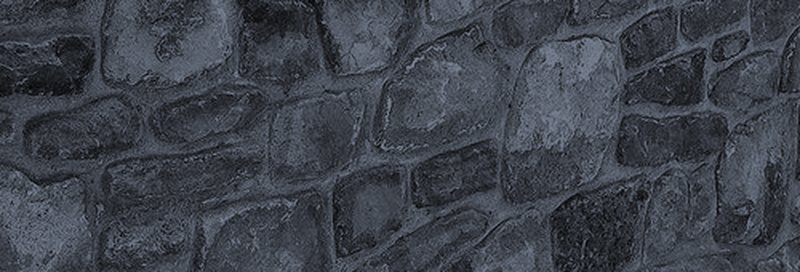
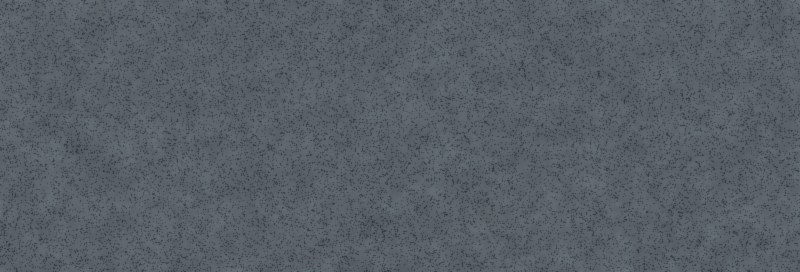
Single-stone button texture, mortar trail anchored to the trowel

diff --git a/assets/css/styles.css b/assets/css/styles.css
@@ -102,9 +102,9 @@ main > .section:not(.cta)::before { counter-increment: sec; content: "No. 0" cou
 @media (max-width: 640px) { .grid-2, .grid-3, .grid-4 { grid-template-columns: 1fr; } }
 
 /* ---------- Buttons: cut from the wall ---------- */
-.btn { position: relative; display: inline-flex; align-items: center; justify-content: center; gap: 12px; padding: 19px 30px; font-family: var(--font-mono); font-size: 0.82rem; font-weight: 500; color: var(--chalk); text-shadow: 0 1px 2px rgba(0,0,0,0.85), 0 0 10px rgba(0,0,0,0.5); background: #8f8676; clip-path: polygon(2% 12%, 9% 0, 62% 3%, 96% 0, 100% 40%, 98% 100%, 55% 96%, 8% 100%, 0 78%); isolation: isolate; white-space: nowrap; transition: transform 0.35s var(--ease-out), filter 0.35s; }
+.btn { position: relative; display: inline-flex; align-items: center; justify-content: center; gap: 12px; padding: 19px 30px; font-family: var(--font-mono); font-size: 0.82rem; font-weight: 500; color: var(--chalk); text-shadow: 0 1px 2px rgba(0,0,0,0.7); background: #8f8676; clip-path: polygon(2% 12%, 9% 0, 62% 3%, 96% 0, 100% 40%, 98% 100%, 55% 96%, 8% 100%, 0 78%); isolation: isolate; white-space: nowrap; transition: transform 0.35s var(--ease-out), filter 0.35s; }
 .btn::before { content: ""; position: absolute; inset: 3px; z-index: -1; background: var(--stone-tex, url("../img/ui/stone-warm.jpg")) center / cover; clip-path: polygon(2% 12%, 9% 0, 62% 3%, 96% 0, 100% 40%, 98% 100%, 55% 96%, 8% 100%, 0 78%); transition: filter 0.35s; }
-.btn::after { content: ""; position: absolute; inset: 3px; z-index: -1; clip-path: polygon(2% 12%, 9% 0, 62% 3%, 96% 0, 100% 40%, 98% 100%, 55% 96%, 8% 100%, 0 78%); background: linear-gradient(160deg, rgba(255,255,255,0.16), rgba(0,0,0,0.12) 40%, rgba(0,0,0,0.45)); pointer-events: none; }
+.btn::after { content: ""; position: absolute; inset: 3px; z-index: -1; clip-path: polygon(2% 12%, 9% 0, 62% 3%, 96% 0, 100% 40%, 98% 100%, 55% 96%, 8% 100%, 0 78%); background: linear-gradient(160deg, rgba(255,255,255,0.22), rgba(0,0,0,0) 45%, rgba(0,0,0,0.38)); pointer-events: none; }
 .btn:hover { transform: translateY(-2px); }
 .btn:hover::before, .btn:focus-visible::before { filter: brightness(1.18) saturate(1.1); }
 .btn .arrow { width: 18px; height: 18px; transition: transform 0.35s var(--ease-out); filter: drop-shadow(0 1px 1px rgba(0,0,0,0.5)); }
@@ -168,13 +168,13 @@ body.menu-open { overflow: hidden; }
 .loader.is-done { display: none; }
 
 /* ---------- Trowel cursor + mortar trail ---------- */
-.cursor { position: fixed; top: 0; left: 0; z-index: 9995; pointer-events: none; width: 42px; height: 42px; color: #e9e3d5; filter: drop-shadow(0 2px 3px rgba(0,0,0,0.45)); transform: translate(-4px, -4px); transition: transform 0.25s var(--ease-out); display: none; }
+.cursor { position: fixed; top: 0; left: 0; z-index: 9995; pointer-events: none; width: 42px; height: 42px; color: #e9e3d5; filter: drop-shadow(0 2px 3px rgba(0,0,0,0.45)); display: none; }
 .cursor svg { width: 100%; height: 100%; transform: rotate(-20deg); transition: transform 0.3s var(--ease-out); }
 .cursor.is-link svg { transform: rotate(-38deg) scale(1.15); }
 .cursor.is-down svg { transform: rotate(-55deg) scale(0.95); }
 .cursor .cursor-label { position: absolute; left: 36px; top: 4px; padding: 6px 9px; background: var(--rosso); color: var(--chalk); font-family: var(--font-mono); font-size: 0.66rem; white-space: nowrap; opacity: 0; transform: translateX(-6px); transition: opacity 0.25s, transform 0.25s; }
 .cursor.is-view .cursor-label { opacity: 1; transform: none; }
-.mortar { position: fixed; inset: 0; z-index: 9994; pointer-events: none; display: none; }
+.mortar { position: fixed; inset: 0; width: 100vw; height: 100vh; z-index: 9994; pointer-events: none; display: none; }
 @media (pointer: fine) { html.has-trowel, html.has-trowel a, html.has-trowel button, html.has-trowel summary, html.has-trowel input, html.has-trowel textarea, html.has-trowel select, html.has-trowel [role=button] { cursor: none; } html.has-trowel .cursor, html.has-trowel .mortar { display: block; } }
 
 /* ---------- Hero ---------- */

diff --git a/assets/js/main.js b/assets/js/main.js
@@ -162,7 +162,7 @@
     const yTo = gsap.quickTo(cursor, "y", { duration: 0.12, ease: "power3" });
     const ctx = mortar.getContext("2d");
     let blobs = [], last = { x: -1, y: -1 }, raf = null, dpr = Math.min(window.devicePixelRatio || 1, 2);
-    const size = () => { mortar.width = innerWidth * dpr; mortar.height = innerHeight * dpr; ctx.setTransform(dpr, 0, 0, dpr, 0, 0); };
+    const size = () => { mortar.width = innerWidth * dpr; mortar.height = innerHeight * dpr; mortar.style.width = innerWidth + "px"; mortar.style.height = innerHeight + "px"; ctx.setTransform(dpr, 0, 0, dpr, 0, 0); };
     size(); window.addEventListener("resize", size);
     const add = (x, y, r, life) => { blobs.push({ x: x + (Math.random() - 0.5) * 6, y: y + (Math.random() - 0.5) * 6, r, born: performance.now(), life, a: Math.random() * Math.PI }); if (!raf) raf = requestAnimationFrame(draw); };
     const draw = (now) => {
@@ -178,7 +178,7 @@
     window.addEventListener("mousemove", (e) => {
       xTo(e.clientX); yTo(e.clientY);
       const d = Math.hypot(e.clientX - last.x, e.clientY - last.y);
-      if (d > 7) { add(e.clientX - 2, e.clientY - 2, 4 + Math.min(d, 40) * 0.18, 900); last = { x: e.clientX, y: e.clientY }; }
+      if (d > 7) { add(e.clientX + 4, e.clientY + 4, 4 + Math.min(d, 40) * 0.18, 900); last = { x: e.clientX, y: e.clientY }; }
     }, { passive: true });
     window.addEventListener("mousedown", (e) => { cursor.classList.add("is-down"); for (let i = 0; i < 9; i++) add(e.clientX + (Math.random() - 0.5) * 34, e.clientY + (Math.random() - 0.5) * 34, 5 + Math.random() * 9, 1400 + Math.random() * 600); });
     window.addEventListener("mouseup", () => cursor.classList.remove("is-down"));
